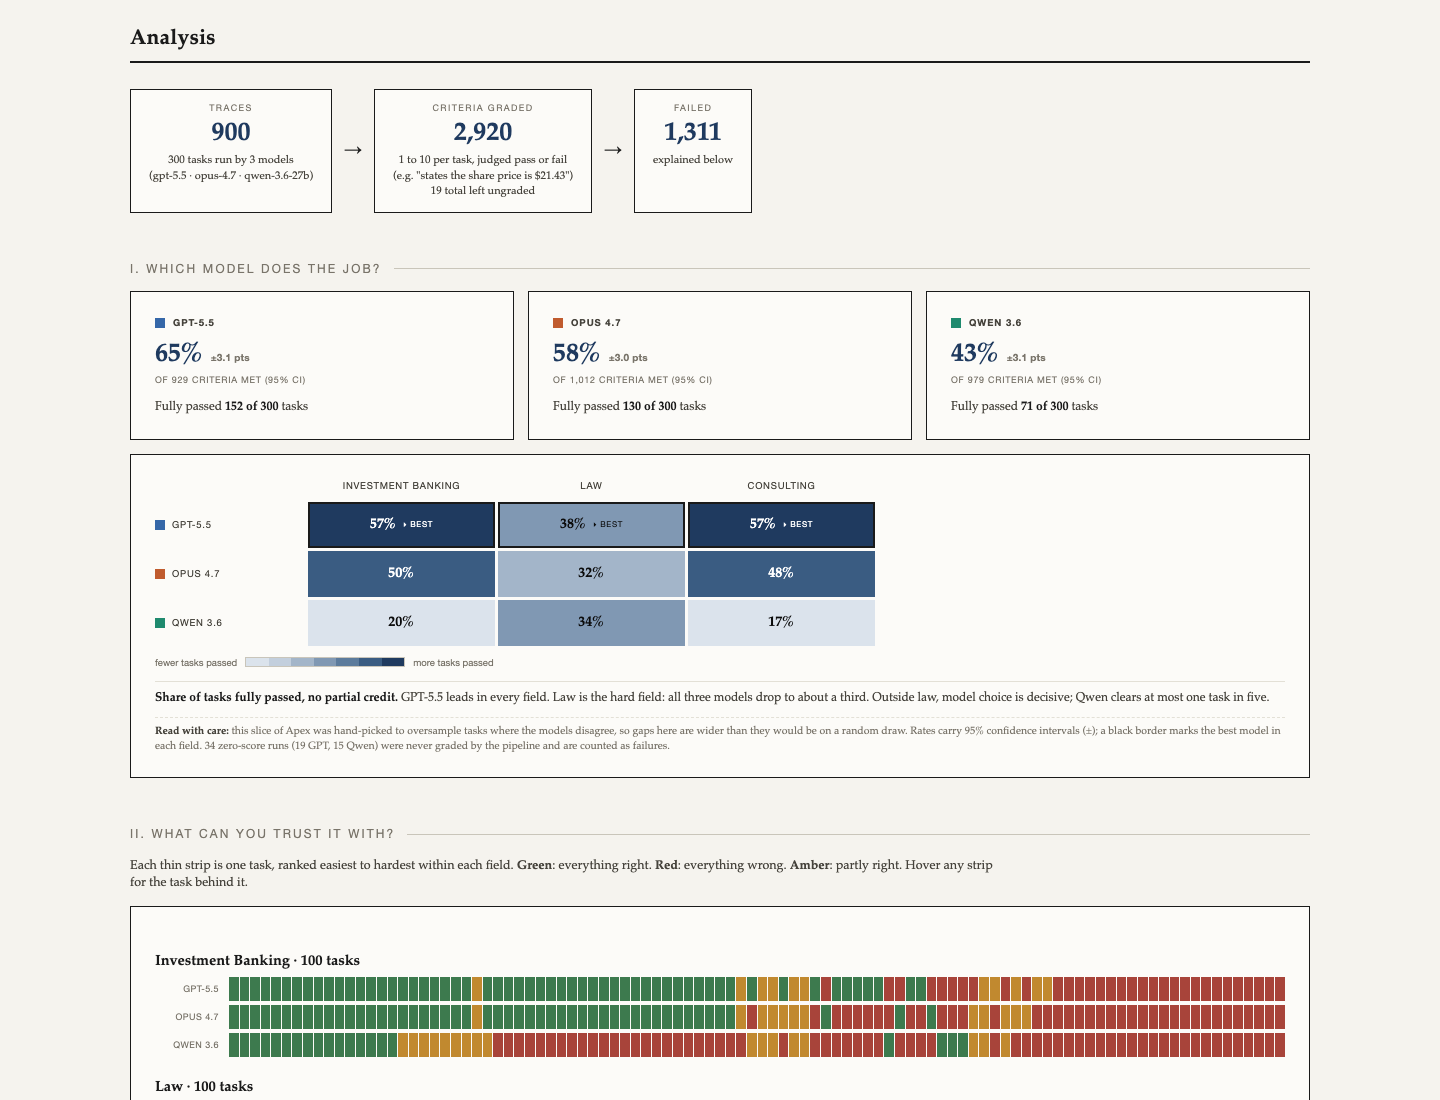
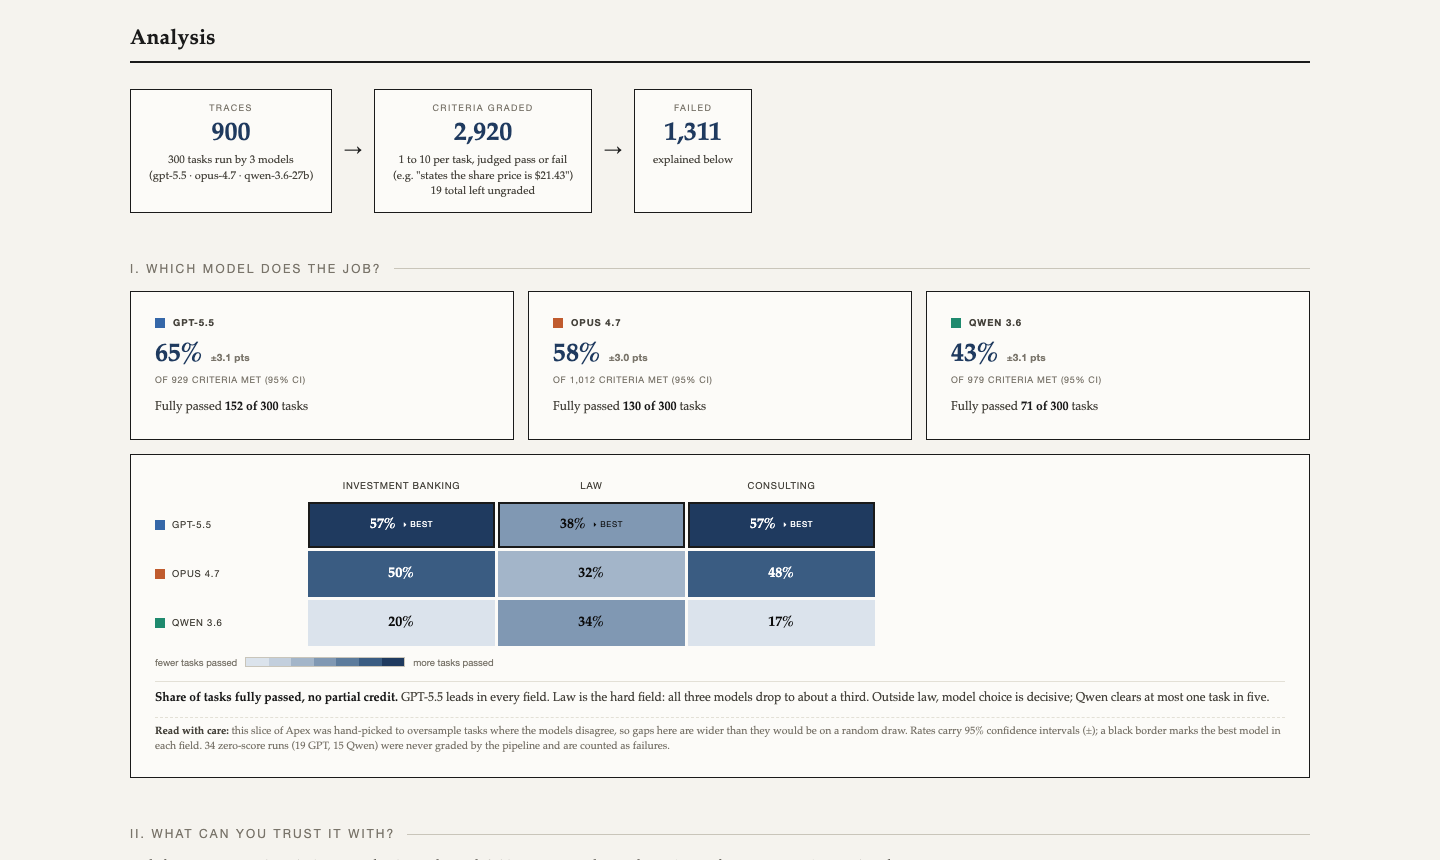
update

Changed region(s): [[0.0938, 0.0302, 0.9062, 0.9977]]

diff --git a/scripts/build.py b/scripts/build.py
@@ -1,45 +1,44 @@
 #!/usr/bin/env python3
-"""Augment data.json with trajectory-derived stats, then inline it into the template.
+"""Rebuild analysis.html from the template and the results data.
 
-Usage: python3 dashboard/build.py  (from the repo root)
+Usage: python3 scripts/build.py  (from the repository root)
+
+Criterion pass rates and confidence-interval counts are recomputed from
+data/index.jsonl. The step counts in the "Does working longer help?" chart
+were measured on the full run transcripts, which are not included in this
+repository; those numbers are kept as stored in scripts/data.json.
 """
 import json
-import statistics
 from pathlib import Path
 
 ROOT = Path(__file__).resolve().parent.parent
-DASH = ROOT / "dashboard"
 
-data = json.loads((DASH / "data.json").read_text())
+data = json.loads((ROOT / "scripts" / "data.json").read_text())
+runs = [json.loads(line) for line in (ROOT / "data" / "index.jsonl").read_text().splitlines()]
 
-# Per model|domain: criterion pass rate from the index, median steps from the traces.
-runs = [json.loads(line) for line in (ROOT / "index.jsonl").read_text().splitlines()]
+# Per model and field: criterion pass rate from the results table.
 groups = {}
 for r in runs:
-    g = groups.setdefault(f"{r['model']}|{r['domain']}", {"nc": 0, "nf": 0, "steps": []})
+    g = groups.setdefault(f"{r['model']}|{r['domain']}", {"nc": 0, "nf": 0, "n_runs": 0})
     g["nc"] += r["n_criteria"]
     g["nf"] += r["n_failed"]
-    trace = json.loads((ROOT / r["file"]).read_text())
-    g["steps"].append(len(trace["trajectory"]))
+    g["n_runs"] += 1
 
-data["steps"] = {
-    key: {
-        "med_steps": round(statistics.median(g["steps"]), 1),
-        "passrate": round((g["nc"] - g["nf"]) / g["nc"], 4),
-        "n_runs": len(g["steps"]),
-        "n_crit": g["nc"],
-    }
-    for key, g in groups.items()
-}
+for key, g in groups.items():
+    s = data["steps"].setdefault(key, {})
+    s["passrate"] = round((g["nc"] - g["nf"]) / g["nc"], 4)
+    s["n_runs"] = g["n_runs"]
+    s["n_crit"] = g["nc"]
+    # s["med_steps"] stays as measured from the run transcripts.
 
-# Per-model graded-criteria counts, for confidence intervals on the KPI tiles.
+# Per-model graded-criteria counts, for the confidence intervals on the tiles.
 data["n_crit"] = {}
 for r in runs:
     data["n_crit"][r["model"]] = data["n_crit"].get(r["model"], 0) + r["n_criteria"]
 
-(DASH / "data.json").write_text(json.dumps(data, separators=(",", ":")))
+(ROOT / "scripts" / "data.json").write_text(json.dumps(data, separators=(",", ":")))
 
-template = (DASH / "dashboard_template.html").read_text()
+template = (ROOT / "scripts" / "dashboard_template.html").read_text()
 html = template.replace("/*__DATA__*/", json.dumps(data, separators=(",", ":")))
-(DASH / "dashboard.html").write_text(html)
-print(f"built dashboard.html ({len(html):,} bytes), steps groups: {len(data['steps'])}")
+(ROOT / "analysis.html").write_text(html)
+print(f"built analysis.html ({len(html):,} bytes)")
